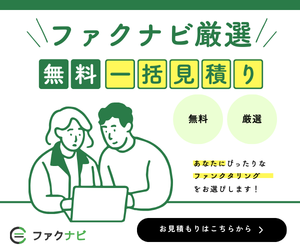
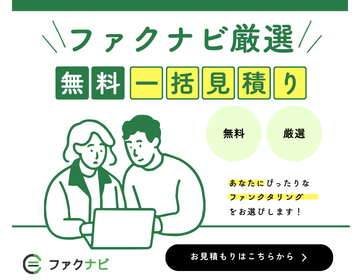
TOPヒーロー右側バナーを新デザインに差し替え

diff --git a/src/app/page.tsx b/src/app/page.tsx
@@ -114,7 +114,7 @@ export default async function HomePage() {
             <div className="flex-shrink-0 w-full md:w-[320px] relative">
               <div className="absolute -inset-4 bg-gradient-to-br from-blue-400/15 via-emerald-400/10 to-transparent rounded-3xl blur-2xl pointer-events-none hidden md:block" />
               <Link href="/mitsumori" className="relative block rounded-2xl overflow-hidden shadow-xl ring-1 ring-black/5 hover:shadow-2xl hover:-translate-y-1 transition-all duration-300 max-w-xs mx-auto md:max-w-none">
-                <Image src="/images/mitsumori-banner-v2.png" width={600} height={600} alt="ファクナビ 無料一括見積もり" className="w-full h-auto" />
+                <Image src="/images/mitsumori-banner.png" width={360} height={280} alt="ファクナビ厳選 無料一括見積もり" className="w-full h-auto" />
               </Link>
             </div>
           </div>
